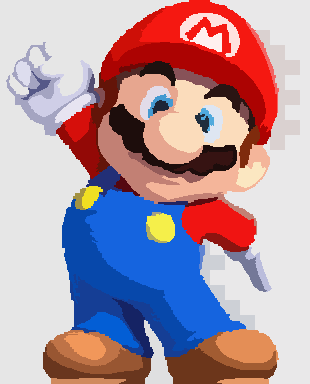
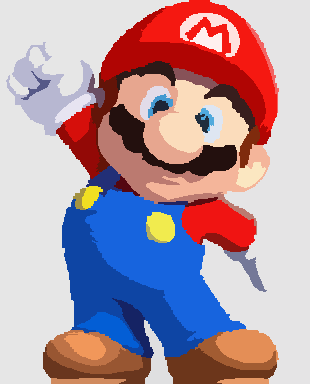
processing update
finding cell centers + placing numbers, output

diff --git a/processing.py b/processing.py
@@ -1,6 +1,6 @@
 from __future__ import division
 from tkinter import *
-from PIL import Image, ImageTk, ImageFilter,ImageEnhance
+from PIL import Image, ImageTk, ImageFilter,ImageEnhance, ImageFont, ImageDraw
 import random, math, time
 from collections import Counter, defaultdict, namedtuple
 import numpy as np
@@ -10,7 +10,7 @@ import numpy as np
 INFILE = "images/mario.jpg"
 OUTFILE_STEM = "out"
 P = 14
-N = 70
+N = 55
 OUTPUT_ALL = True # Whether to output the image at each step
 
 FLOOD_FILL_TOLERANCE = 10
@@ -328,6 +328,8 @@ if OUTPUT_ALL:
 del n_graph, n_scores
 #INTERNET code complete
 print ("Stage 5: N-merging complete, %d cells" % len(cell_sets))
+
+
 """
 Stage last: Output the image!
 """
@@ -345,64 +347,139 @@ def cluster(cells,cell_means):
 cluster(cell_sets)
 """
 #print(cell_sets[0])
-print(type(cell_means))
-def cluster(palette = cell_means):
-  prevpalette = palette
-  psize = len(prevpalette)
-  for color in cell_means:
-    r,g,b = lab2rgb(cell_means[color])
-    average = (r+g+b)/3
-    for c in (cell_means):
-      r,g,b = lab2rgb(cell_means[c])
-      average2 = (r+g+b)/3
-      if 0.95 < average/average2 < 1.15:
-        clr = (average + average2)/2
-        clr = rgb2lab((clr,clr,clr))
-        cell_means[c] = clr
-        cell_means[color] = clr
-      
-  palette = []
-  for i in cell_means:
-    if cell_means[i] not in palette:
-      palette.append(cell_means[i])
-  if len(prevpalette) == len(palette):
-    print(palette)
-    return palette
-  return cluster(palette)
-
-palette = cluster()
-print(len(palette))
-def recolor(image):
-  for cell in cell_sets:
-    for pixel in cell_sets[cell]:
-      image.putpixel(pixel, lab2rgb(cell_means[cell]))
-  return image
-
-frame_im = recolor(frame_im)
-frame_im.show()
-
-
-#find centroid for the cells in cell_sets
-
-frame_im = ImageEnhance.Contrast(frame_im).enhance(1.7)
-def rgbtohex(r,g,b):
-  r,g,b = hex(r)[2:], hex(g)[2:], hex(b)[2:]
-  if len(r) == 1:
-    r = "0" + r
-  if len(g) == 1:
-    g = "0" + g
-  if len(r) == 1:
-    b = "0" + b
-  return "#%s%s%s"%(r,g,b)
-
-'''palette = []
+palette = []
 for i in range(width):
   for j in range(height):
     currentColor = frame_im.getpixel((i,j))
     if currentColor not in palette:
         palette.append(currentColor)
-print(len(palette))
-'''
+print(len(palette), "first")
+
+print(type(cell_means))
+def cluster(palette = cell_means):
+  prevpalette = palette
+  for color in cell_means:
+    L1,a1,b1 = cell_means[color]
+    
+    for c in (cell_means):
+      L2,a2,b2 = cell_means[c]
+      diff = (abs(L1-L2)**2 + abs(a1-a2)**2 + abs(b1-b2)**2)**.5
+      if diff <= 16:
+      #if 0.95 < average/average2 < 1.15:
+        r1,g1,b1 = lab2rgb(cell_means[c])
+        r2,g2,b2 = lab2rgb(cell_means[color])
+        avg = ((r1+r2)/2, (g1+g2)/2, (b1+b2)/2)
+        cell_means[c] = rgb2lab(avg)
+        cell_means[color] = rgb2lab(avg)
+      
+  palette = []
+  for i in cell_means:
+    if cell_means[i] not in palette:
+      palette.append(cell_means[i])
+  if prevpalette == palette:
+    return palette
+  return cluster(palette)
+
+palette = cluster()
+print(len(palette), "clustered")
+
+def recoloredImage():
+  image = Image.new("RGB", frame_im.size)
+  for cell in cell_sets:
+    for pixel in cell_sets[cell]:
+      image.putpixel(pixel, lab2rgb(cell_means[cell]))
+  return image
+
+frame_im = recoloredImage()
+
+frame_im = ImageEnhance.Contrast(frame_im).enhance(1.5)
+frame_im.show()
+#frame_im = ImageEnhance.Sharpness(frame_im).enhance(1.5)
+print("Stage 7: Identifying the cell centroids")
+
+def findCenters():
+  cell_centers = {}
+  for cell in cell_sets:
+    pixels = list(cell_sets[cell])
+    color = cell_means[cell]
+    colorindex = str(palette.index(color))
+    
+    n = len(pixels)
+    if n == 1:
+      centpixel = pixels[0]
+    elif n > 1: 
+      centpixel = pixels[n//2-2]
+
+    cell_centers[centpixel] = colorindex
+  return cell_centers
+    #font = ImageFont.truetype("arial.ttg", 10)
+    #w,h = font.getsize(str(colorindex))
+
+frame_im.save("outputs/outmario.png")
+
+image = Image.open('outputs/outmario.png')
+
+image.show()
+print(image.size)
+#pixels = image.load()
+#test2 outlining the image
+width, height = image.size
+print(width,height)
+previousColor = ()
+outline = []
+rgb = image.convert('RGB')
+for y in range(height):
+   for x in range(width):
+    currentColor = rgb.getpixel((x,y))
+    if currentColor != previousColor:
+        outline.append((x,y))
+        previousColor = currentColor
+for x in range(width):
+   for y in range(height):
+    currentColor = rgb.getpixel((x,y))
+    if currentColor != previousColor:
+        outline.append((x,y))
+        previousColor = currentColor
+   
+outimg = Image.new(image.mode,image.size)
+#newim.show()
+for y in range(height):
+   for x in range(width):
+      outimg.putpixel((x,y),(255,255,255))
+for i in outline:
+   outimg.putpixel(i, (0, 0, 0)) 
+ImageEnhance.Sharpness(outimg).enhance(1.6)
+outimg.show()
+#outimg.save("outputs/outlinedmario.png")
+
+def placeNumbers(image):
+  for center in cell_centers:
+    centext = ImageDraw.Draw(image)
+    font = ImageFont.truetype("calibri.ttf", 10)
+    centext.text(center, cell_centers[center],font = font, fill = "black")
+
+
+cell_centers = findCenters()
+placeNumbers(outimg)
+outimg.show()
+outimg.save("outputs/finalmario.png")
+
+
+#find centroid for the cells in cell_sets
+
+
+def rgbtohex(r,g,b):
+  r,g,b = hex(r)[2:], hex(g)[2:], hex(b)[2:]
+  if len(r) != 2:
+    r = "0" + r
+  if len(g) != 2:
+    g = "0" + g
+  if len(r) != 2:
+    b = "0" + b
+  return "#%s%s%s"%(r,g,b)
+
+
+
 wnd = Tk()
 wnd.title("PBN")
 wnd.geometry("500x400")

diff --git a/border detection.py b/border detection.py
@@ -1,7 +1,7 @@
 from PIL import Image, ImageFilter, ImageEnhance
 import numpy as np
 
-image = Image.open('images/segmented.jpg')
+image = Image.open('outputs/outmario.png')
 
 image.show()
 print(image.size)
@@ -24,13 +24,6 @@ for x in range(width):
     if currentColor != previousColor:
         outline.append((x,y))
         previousColor = currentColor
-for y in range(height,0):
-   for x in range(width,0):
-    currentColor = rgb.getpixel((x,y))
-    if currentColor != previousColor:
-        outline.append((x,y))
-        previousColor = currentColor
-   print(x)
    
 outimg = Image.new(image.mode,image.size)
 #newim.show()
@@ -39,7 +32,7 @@ for y in range(height):
       outimg.putpixel((x,y),(255,255,255))
 for i in outline:
    outimg.putpixel(i, (0, 0, 0)) 
-ImageEnhance.Sharpness(outimg).enhance(1.3)
+ImageEnhance.Sharpness(outimg).enhance(1.6)
 outimg.show()
-outimg.save("output.png")    
+outimg.save("outputs/outlinedmario.png")    
 
